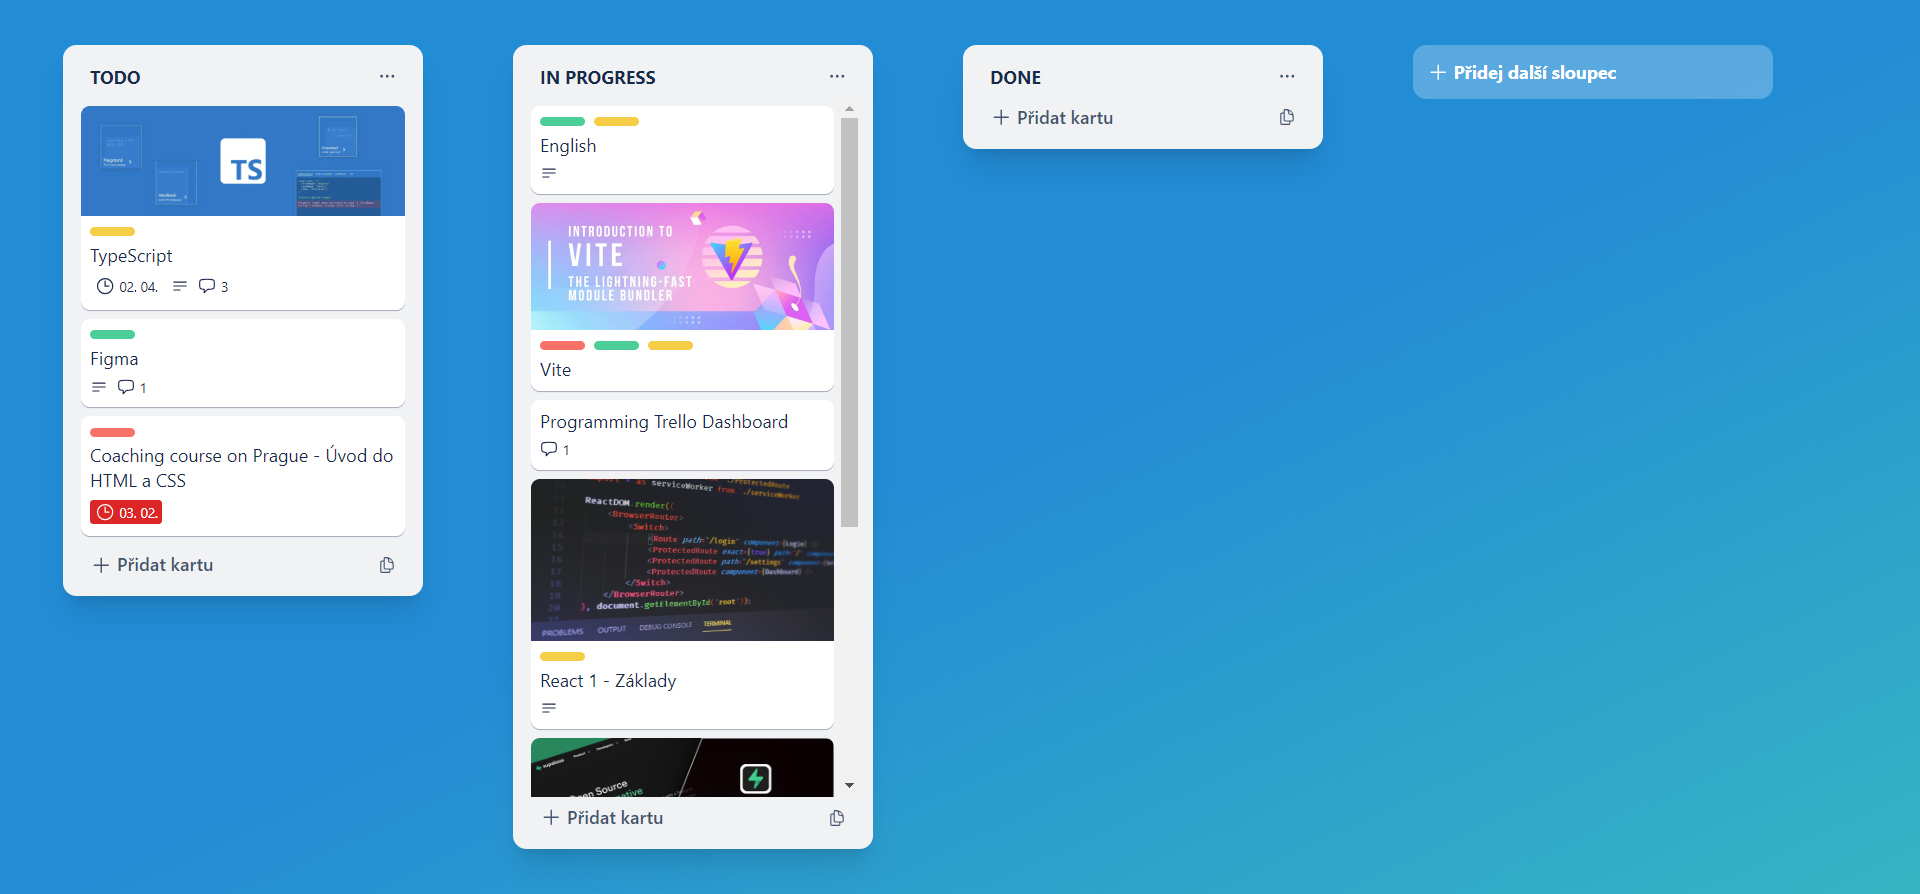
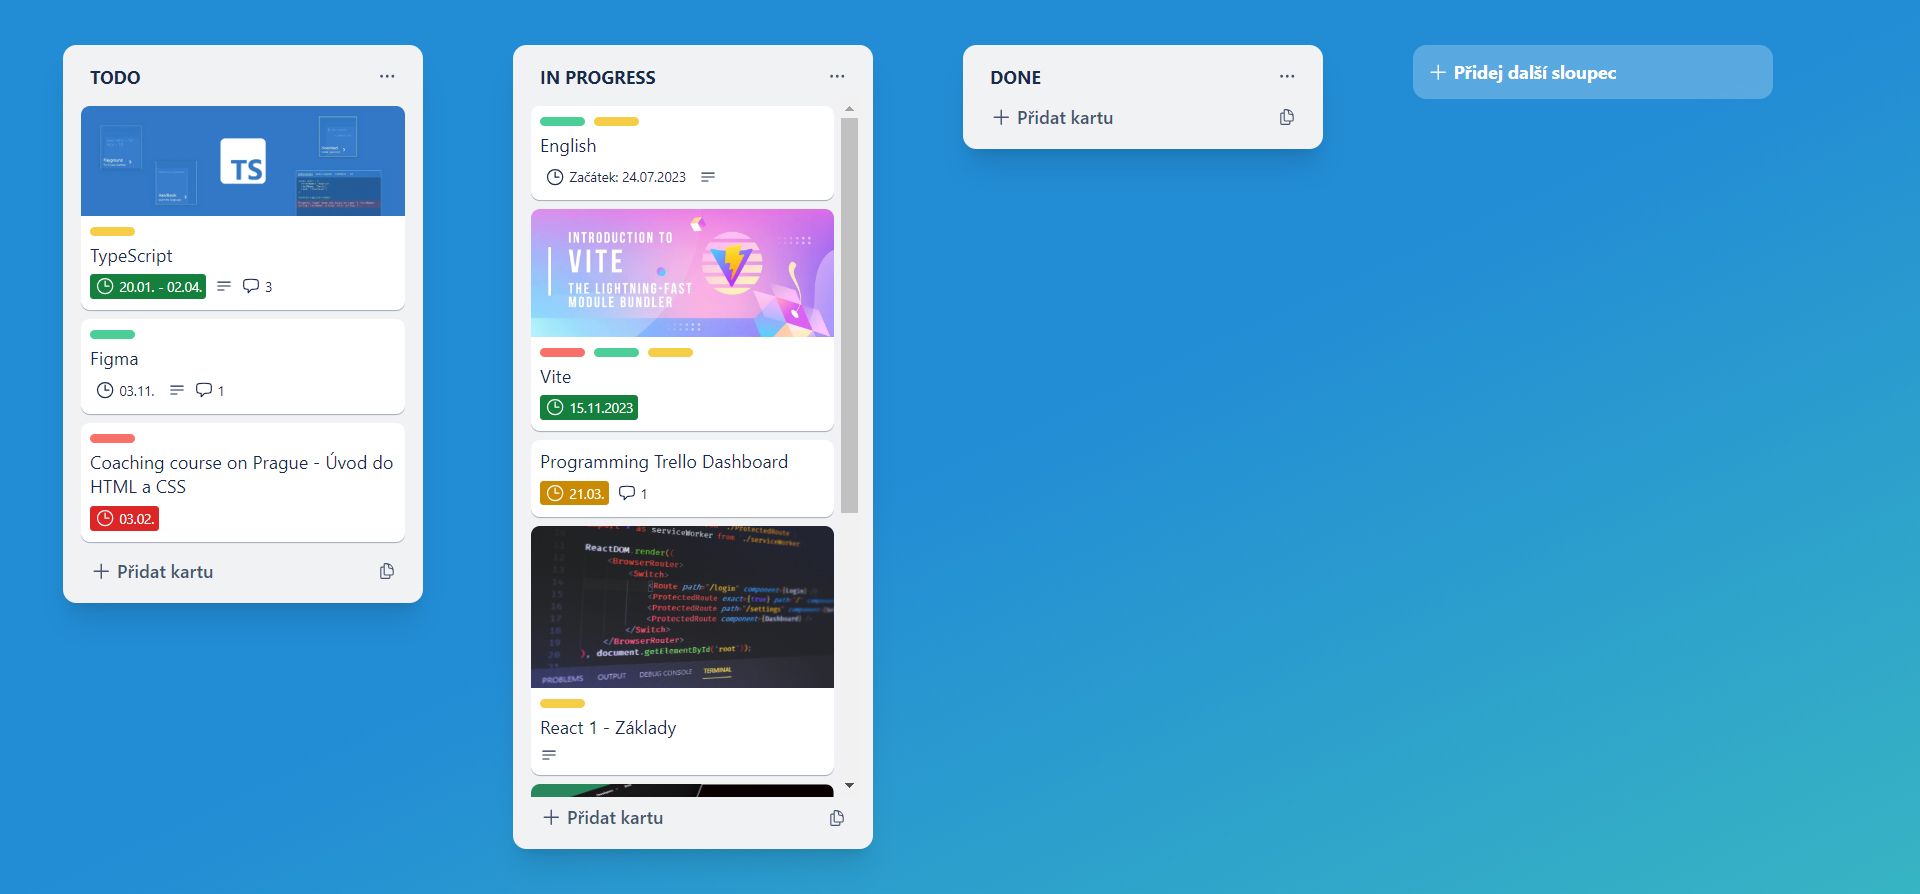
update readme

diff --git a/README.md b/README.md
@@ -21,10 +21,11 @@ Cílem tohoto projektu je prohloubit znalosti Reactu a napojit data na Supabase.
 
 ### Práce s kartami
 - **přidat** novou kartu, přetáhnout (drag and drop) kartu do jiného sloupce
+- **označit úkol jako dokončený** kliknutím na ikonu datumu
 - **zobrazovat ikony**, pokud má karta:
     - vyplněný popis
     - obsahuje komentáře vč. jejich počtu
-    - barevně odlišovat termín (červeně - po termínu, žlutě - dnešní termín, bez barvy - pozdější termín)
+    - barevně odlišovat termín (červeně - po termínu, žlutě - dnešní termín, zeleně - hotovo, bez barvy - pozdější termín)
     - štítky
 
 
@@ -32,6 +33,7 @@ Cílem tohoto projektu je prohloubit znalosti Reactu a napojit data na Supabase.
 - **upravit název** karty
 - **přidat nebo upravit popis** karty
 - **přidat, upravit nebo smazat komentáře** (chronologicky seřazeny)
+- **přidat, upravit nebo smazat termín** (datum zahájení a termín dokončení)
 
 
 Na dalších funcionalitách aplikace pracuju.
